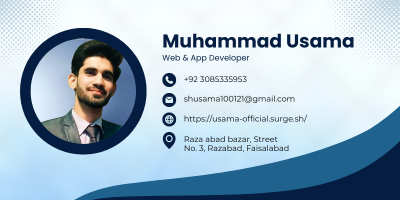
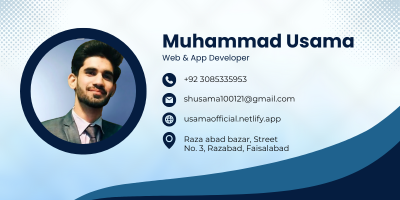
Update SEO files and meta tags for Netlify site

Changed region(s): [[0.45, 0.57, 0.78, 0.63]]

diff --git a/index.html b/index.html
@@ -12,20 +12,20 @@
   <meta name="author" content="Usama Sheikh">
 
   <!-- 🧭 Canonical URL -->
-  <link rel="canonical" href="https://usama.netlify.app/">
+  <link rel="canonical" href="https://usamaofficial.netlify.app/">
 
   <!-- 🖼 Open Graph (Facebook, LinkedIn, WhatsApp Preview) -->
   <meta property="og:title" content="Usama Sheikh | Professional Web Designer & Developer">
   <meta property="og:description" content="Creative portfolio of Usama Sheikh – building fast, modern,MERN,NEXT,web designer, and professional websites for clients around the world.">
-  <meta property="og:image" content="https://usama.netlify.app/assets/img/about.png"> <!-- replace with your image -->
-  <meta property="og:url" content="https://usama.netlify.app/">
+  <meta property="og:image" content="https://usamaofficial.netlify.app/assets/img/about.png"> <!-- replace with your image -->
+  <meta property="og:url" content="https://usamaofficial.netlify.app/">
   <meta property="og:type" content="website">
 
   <!-- 🐦 Twitter Card -->
   <meta name="twitter:card" content="summary_large_image">
   <meta name="twitter:title" content="Usama Sheikh | Web Designer & Developer">
   <meta name="twitter:description" content="Freelance web designer and developer creating powerful, SEO-optimized websites globally.">
-  <meta name="twitter:image" content="https://usama.netlify.app/assets/img/about.png">
+  <meta name="twitter:image" content="https://usamaofficial.netlify.app/assets/img/about.png">
 
   <!-- 🌍 Social Media Profiles -->
   <meta property="og:see_also" content="https://twitter.com/MUsama2001">
